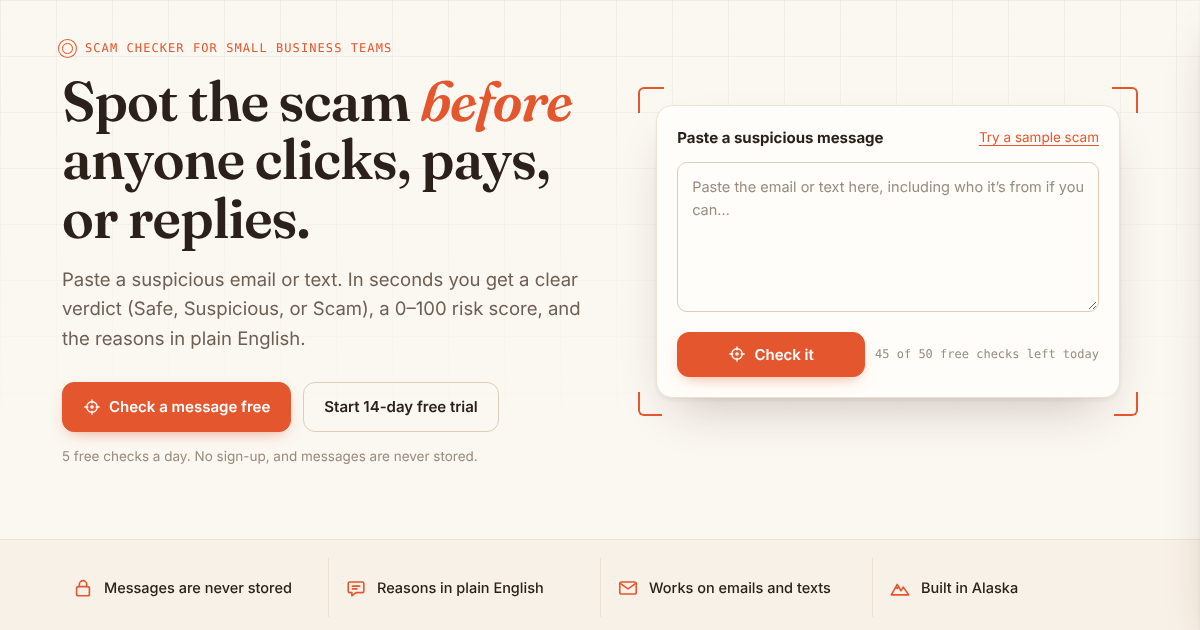
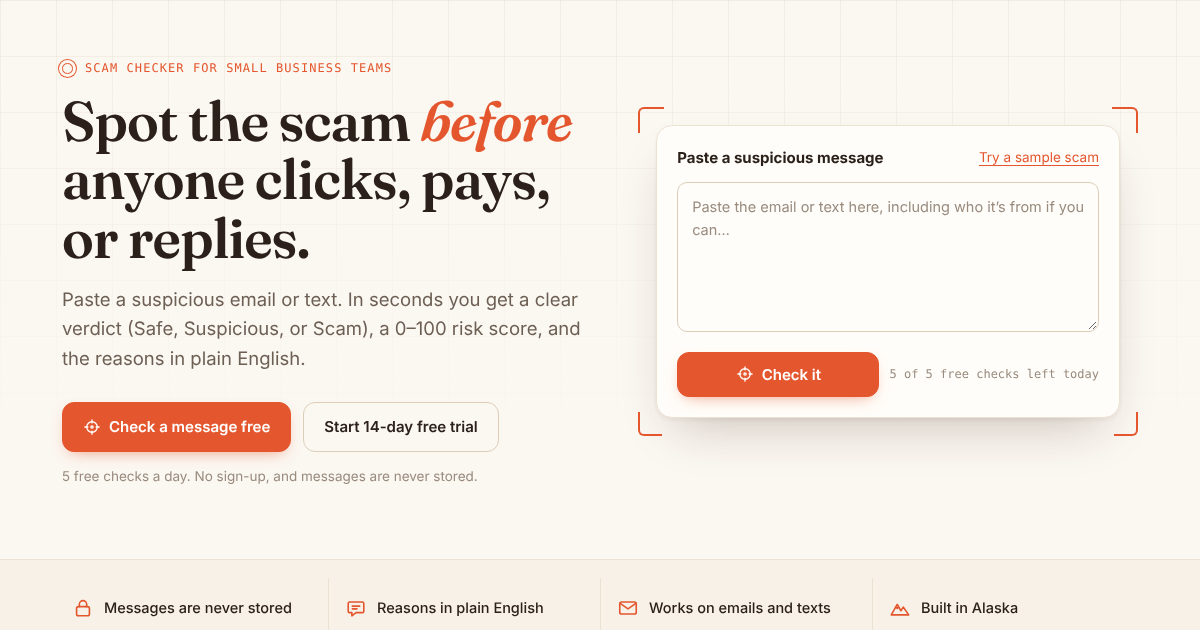
Keep the owner's photo in Menu > About only
Remove the photo from the homepage hero, the homepage 'Hi, I'm Houston'
section and the Menu button; drop About from the top nav. The photo and
intro remain under Menu > About the owner and on /about.

Claude-Session: https://claude.ai/code/session_01CN22sN54SqRwMSc3S3gdZv

diff --git a/public/index.html b/public/index.html
@@ -30,9 +30,9 @@
 <symbol id="i-arrow" viewBox="0 0 24 24"><path d="M5 12h14M13 6l6 6-6 6"/></symbol>
 </defs></svg>
 <header class="nav"><div class="wrap"><a class="logo" href="/"><img src="/logo.svg" alt="" width="28" height="28">ScamSpotter</a>
-<nav class="nav-links" aria-label="Main"><a href="#how">How it works</a><a href="#pricing">Pricing</a><a href="/about">About</a><a href="#faq">FAQ</a>
+<nav class="nav-links" aria-label="Main"><a href="#how">How it works</a><a href="#pricing">Pricing</a><a href="#faq">FAQ</a>
 <a class="btn sm" href="/check">Check a message</a>
-<button class="menu-btn" type="button" data-menu aria-controls="menu"><img src="/img/houston-avatar.jpg" alt="" width="24" height="24"><span class="lbl">Menu</span><svg class="i" viewBox="0 0 24 24" aria-hidden="true"><path d="M4 7h16M4 12h16M4 17h16"/></svg></button></nav></div></header>
+<button class="menu-btn" type="button" data-menu aria-controls="menu"><span class="lbl">Menu</span><svg class="i" viewBox="0 0 24 24" aria-hidden="true"><path d="M4 7h16M4 12h16M4 17h16"/></svg></button></nav></div></header>
 <main>
 <section class="hero"><div class="wrap"><div>
 <span class="tag">Scam checker for small business teams</span>
@@ -40,7 +40,6 @@
 <p class="lead">Paste a suspicious email or text. In seconds you get a clear verdict (Safe, Suspicious, or Scam), a 0–100 risk score, and the reasons in plain English.</p>
 <div class="ctas"><a class="btn" href="#scan" data-focus-scan><svg class="i"><use href="#i-reticle"/></svg>Check a message free</a><a class="btn ghost" href="https://buy.stripe.com/7sY7sL3WAdh23e80D0asg04">Start 14-day free trial</a></div>
 <p class="fine">5 free checks a day. No sign-up, and messages are never stored.</p>
-<div class="hello"><img src="/img/houston-avatar.jpg" alt="" width="44" height="44"><div>Built by <b>Houston Cook</b> in Anchorage, Alaska. <a href="/about">Meet Houston →</a></div></div>
 </div>
 <div class="lock" id="scan"><span class="c1"></span><span class="c2"></span>
 <form class="scanner" id="hs" novalidate>
@@ -74,16 +73,6 @@
 <div class="card"><div class="ico"><svg class="i"><use href="#i-headset"/></svg></div><h3>Fake support &amp; renewals</h3><p>“Your subscription renewed for $499. Call to cancel.” The number reaches a scammer.</p><div class="eg">Callback numbers · remote-access tools · surprise charges</div></div>
 <div class="card"><div class="ico"><svg class="i"><use href="#i-phone"/></svg></div><h3>Delivery &amp; account texts</h3><p>“Your package is on hold. Update your address here.”</p><div class="eg">Risky domains · short links · urgent deadlines</div></div>
 </div></div></section>
-
-<section class="founder" id="about"><div class="wrap">
-<figure class="lock photo"><span class="c1"></span><span class="c2"></span><img src="/img/houston-plane.jpg" alt="Houston Cook smiling in a small plane’s cockpit, with icebergs and glacier ice in the water below" width="1200" height="900" loading="lazy"></figure>
-<div><span class="tag">Who’s behind it</span><h2>Hi, I’m Houston.</h2>
-<p>I built ScamSpotter in Anchorage, Alaska, for small businesses like the ones around me: the shops, offices, and crews where one person pays the bills and answers the email.</p>
-<p>Scam messages keep getting more convincing, and one wrong reply to a fake invoice or a “new bank details” email can cost thousands of dollars that are hard to get back. I wanted a check that anyone on the team can run in seconds, with no jargon.</p>
-<p>If a result ever looks wrong, tell me. I read every message.</p>
-<p class="sig">Houston Cook</p>
-<p style="margin-top:6px"><a href="/about">Read the full story →</a></p></div>
-</div></section>
 
 <section id="pricing"><div class="wrap"><div class="sec-h"><span class="tag">Pricing</span><h2>Free to try. One simple price for the team.</h2><p>One plan covers your whole business, with no per-seat fees.</p></div>
 <div class="plans">

diff --git a/public/404.html b/public/404.html
@@ -30,9 +30,9 @@
 <symbol id="i-arrow" viewBox="0 0 24 24"><path d="M5 12h14M13 6l6 6-6 6"/></symbol>
 </defs></svg>
 <header class="nav"><div class="wrap"><a class="logo" href="/"><img src="/logo.svg" alt="" width="28" height="28">ScamSpotter</a>
-<nav class="nav-links" aria-label="Main"><a href="/#how">How it works</a><a href="/#pricing">Pricing</a><a href="/about">About</a><a href="/#faq">FAQ</a>
+<nav class="nav-links" aria-label="Main"><a href="/#how">How it works</a><a href="/#pricing">Pricing</a><a href="/#faq">FAQ</a>
 <a class="btn sm" href="/check">Check a message</a>
-<button class="menu-btn" type="button" data-menu aria-controls="menu"><img src="/img/houston-avatar.jpg" alt="" width="24" height="24"><span class="lbl">Menu</span><svg class="i" viewBox="0 0 24 24" aria-hidden="true"><path d="M4 7h16M4 12h16M4 17h16"/></svg></button></nav></div></header>
+<button class="menu-btn" type="button" data-menu aria-controls="menu"><span class="lbl">Menu</span><svg class="i" viewBox="0 0 24 24" aria-hidden="true"><path d="M4 7h16M4 12h16M4 17h16"/></svg></button></nav></div></header>
 <main><div class="app-h" style="padding:90px 0 120px;text-align:center"><div class="wrap"><svg class="i" viewBox="0 0 24 24" style="width:72px;height:72px;color:var(--accent);stroke-width:1.2" aria-hidden="true"><circle cx="12" cy="12" r="7"/><circle cx="12" cy="12" r="1.5"/><path d="M12 2.5v4M12 17.5v4M2.5 12h4M17.5 12h4"/></svg>
 <h1 style="margin-top:14px">Missed the target</h1><p>That page doesn’t exist. Let’s get you back on track.</p><div class="ctas" style="justify-content:center;margin-top:22px"><a class="btn" href="/">Go home</a><a class="btn ghost" href="/check">Check a message</a></div></div></div></main>
 <footer><div class="wrap"><div class="f-logo"><img src="/logo.svg" alt="" width="18" height="18">© 2026 ScamSpotter · Anchorage, Alaska</div>

diff --git a/public/styles.css b/public/styles.css
@@ -20,7 +20,7 @@ header.nav{position:sticky;top:0;z-index:20;background:var(--nav-bg);backdrop-fi
 .logo{display:flex;align-items:center;gap:10px;font-weight:700;font-size:18px;color:var(--ink);text-decoration:none;letter-spacing:-.01em;white-space:nowrap}
 .logo:hover{color:var(--ink)}.logo img{width:28px;height:28px}
 .nav-links{display:flex;gap:22px;align-items:center}.nav-links a:not(.btn){color:var(--muted);text-decoration:none;font-weight:500;font-size:14.5px}.nav-links a:not(.btn):hover{color:var(--ink)}
-.menu-btn{display:inline-flex;align-items:center;gap:8px;font:inherit;font-size:14px;font-weight:600;color:var(--ink);background:var(--surface);border:1px solid var(--line2);border-radius:999px;padding:7px 14px 7px 10px;cursor:pointer;transition:border-color .15s,color .15s}
+.menu-btn{display:inline-flex;align-items:center;gap:8px;font:inherit;font-size:14px;font-weight:600;color:var(--ink);background:var(--surface);border:1px solid var(--line2);border-radius:999px;padding:7px 12px 7px 14px;cursor:pointer;transition:border-color .15s,color .15s}
 .menu-btn:hover{border-color:var(--accent);color:var(--accent)}.menu-btn img{width:24px;height:24px;border-radius:50%;object-fit:cover}.menu-btn svg.i{width:18px;height:18px}
 /* buttons */
 .btn{display:inline-flex;align-items:center;justify-content:center;gap:8px;background:var(--accent);color:var(--on-accent)!important;border:1px solid var(--accent);border-radius:12px;padding:12px 20px;font-weight:600;font-size:15px;text-decoration:none;cursor:pointer;transition:background .15s,border-color .15s,color .15s,transform .15s,box-shadow .15s;font-family:inherit;white-space:nowrap;box-shadow:0 6px 16px -8px rgba(228,87,46,.7)}

diff --git a/public/privacy.html b/public/privacy.html
@@ -30,9 +30,9 @@
 <symbol id="i-arrow" viewBox="0 0 24 24"><path d="M5 12h14M13 6l6 6-6 6"/></symbol>
 </defs></svg>
 <header class="nav"><div class="wrap"><a class="logo" href="/"><img src="/logo.svg" alt="" width="28" height="28">ScamSpotter</a>
-<nav class="nav-links" aria-label="Main"><a href="/#how">How it works</a><a href="/#pricing">Pricing</a><a href="/about">About</a><a href="/#faq">FAQ</a>
+<nav class="nav-links" aria-label="Main"><a href="/#how">How it works</a><a href="/#pricing">Pricing</a><a href="/#faq">FAQ</a>
 <a class="btn sm" href="/check">Check a message</a>
-<button class="menu-btn" type="button" data-menu aria-controls="menu"><img src="/img/houston-avatar.jpg" alt="" width="24" height="24"><span class="lbl">Menu</span><svg class="i" viewBox="0 0 24 24" aria-hidden="true"><path d="M4 7h16M4 12h16M4 17h16"/></svg></button></nav></div></header>
+<button class="menu-btn" type="button" data-menu aria-controls="menu"><span class="lbl">Menu</span><svg class="i" viewBox="0 0 24 24" aria-hidden="true"><path d="M4 7h16M4 12h16M4 17h16"/></svg></button></nav></div></header>
 <main><div class="app-h"><div class="wrap"><span class="tag">Legal</span><h1>Privacy Policy</h1><p>Last updated November 3, 2026</p></div></div>
 <div class="wrap legal">
 <p>ScamSpotter is a small business based in Anchorage, Alaska. This page explains what we collect when you use scamspotter.app and what we do with it. The short version: we don’t save the messages you check, and we don’t sell anything about you.</p>

diff --git a/public/welcome.html b/public/welcome.html
@@ -30,9 +30,9 @@
 <symbol id="i-arrow" viewBox="0 0 24 24"><path d="M5 12h14M13 6l6 6-6 6"/></symbol>
 </defs></svg>
 <header class="nav"><div class="wrap"><a class="logo" href="/"><img src="/logo.svg" alt="" width="28" height="28">ScamSpotter</a>
-<nav class="nav-links" aria-label="Main"><a href="/#how">How it works</a><a href="/#pricing">Pricing</a><a href="/about">About</a><a href="/#faq">FAQ</a>
+<nav class="nav-links" aria-label="Main"><a href="/#how">How it works</a><a href="/#pricing">Pricing</a><a href="/#faq">FAQ</a>
 <a class="btn sm" href="/check">Check a message</a>
-<button class="menu-btn" type="button" data-menu aria-controls="menu"><img src="/img/houston-avatar.jpg" alt="" width="24" height="24"><span class="lbl">Menu</span><svg class="i" viewBox="0 0 24 24" aria-hidden="true"><path d="M4 7h16M4 12h16M4 17h16"/></svg></button></nav></div></header>
+<button class="menu-btn" type="button" data-menu aria-controls="menu"><span class="lbl">Menu</span><svg class="i" viewBox="0 0 24 24" aria-hidden="true"><path d="M4 7h16M4 12h16M4 17h16"/></svg></button></nav></div></header>
 <main><div class="app-h"><div class="wrap"><span class="tag">Welcome</span><h1>You’re in. Welcome to ScamSpotter!</h1><p>Your 14-day free trial has started. You won’t be charged until it ends.</p></div></div>
 <div class="wrap" style="padding:28px 22px 80px;max-width:760px;margin:0">
 <div class="panel" id="wk">

diff --git a/public/terms.html b/public/terms.html
@@ -30,9 +30,9 @@
 <symbol id="i-arrow" viewBox="0 0 24 24"><path d="M5 12h14M13 6l6 6-6 6"/></symbol>
 </defs></svg>
 <header class="nav"><div class="wrap"><a class="logo" href="/"><img src="/logo.svg" alt="" width="28" height="28">ScamSpotter</a>
-<nav class="nav-links" aria-label="Main"><a href="/#how">How it works</a><a href="/#pricing">Pricing</a><a href="/about">About</a><a href="/#faq">FAQ</a>
+<nav class="nav-links" aria-label="Main"><a href="/#how">How it works</a><a href="/#pricing">Pricing</a><a href="/#faq">FAQ</a>
 <a class="btn sm" href="/check">Check a message</a>
-<button class="menu-btn" type="button" data-menu aria-controls="menu"><img src="/img/houston-avatar.jpg" alt="" width="24" height="24"><span class="lbl">Menu</span><svg class="i" viewBox="0 0 24 24" aria-hidden="true"><path d="M4 7h16M4 12h16M4 17h16"/></svg></button></nav></div></header>
+<button class="menu-btn" type="button" data-menu aria-controls="menu"><span class="lbl">Menu</span><svg class="i" viewBox="0 0 24 24" aria-hidden="true"><path d="M4 7h16M4 12h16M4 17h16"/></svg></button></nav></div></header>
 <main><div class="app-h"><div class="wrap"><span class="tag">Legal</span><h1>Terms of Service</h1><p>Last updated November 3, 2026</p></div></div>
 <div class="wrap legal">
 <p>These terms apply to your use of scamspotter.app and the ScamSpotter service. By using the site, you agree to them.</p>

diff --git a/public/about.html b/public/about.html
@@ -30,9 +30,9 @@
 <symbol id="i-arrow" viewBox="0 0 24 24"><path d="M5 12h14M13 6l6 6-6 6"/></symbol>
 </defs></svg>
 <header class="nav"><div class="wrap"><a class="logo" href="/"><img src="/logo.svg" alt="" width="28" height="28">ScamSpotter</a>
-<nav class="nav-links" aria-label="Main"><a href="/#how">How it works</a><a href="/#pricing">Pricing</a><a href="/about">About</a><a href="/#faq">FAQ</a>
+<nav class="nav-links" aria-label="Main"><a href="/#how">How it works</a><a href="/#pricing">Pricing</a><a href="/#faq">FAQ</a>
 <a class="btn sm" href="/check">Check a message</a>
-<button class="menu-btn" type="button" data-menu aria-controls="menu"><img src="/img/houston-avatar.jpg" alt="" width="24" height="24"><span class="lbl">Menu</span><svg class="i" viewBox="0 0 24 24" aria-hidden="true"><path d="M4 7h16M4 12h16M4 17h16"/></svg></button></nav></div></header>
+<button class="menu-btn" type="button" data-menu aria-controls="menu"><span class="lbl">Menu</span><svg class="i" viewBox="0 0 24 24" aria-hidden="true"><path d="M4 7h16M4 12h16M4 17h16"/></svg></button></nav></div></header>
 <main>
 <section class="about-hero"><div class="wrap"><div><span class="tag">About</span><h1>A scam checker built in Alaska, for the people who pay the bills.</h1>
 <p>ScamSpotter is a small, independent business run by Houston Cook in Anchorage.</p></div>

diff --git a/public/check.html b/public/check.html
@@ -30,9 +30,9 @@
 <symbol id="i-arrow" viewBox="0 0 24 24"><path d="M5 12h14M13 6l6 6-6 6"/></symbol>
 </defs></svg>
 <header class="nav"><div class="wrap"><a class="logo" href="/"><img src="/logo.svg" alt="" width="28" height="28">ScamSpotter</a>
-<nav class="nav-links" aria-label="Main"><a href="/#how">How it works</a><a href="/#pricing">Pricing</a><a href="/about">About</a><a href="/#faq">FAQ</a>
+<nav class="nav-links" aria-label="Main"><a href="/#how">How it works</a><a href="/#pricing">Pricing</a><a href="/#faq">FAQ</a>
 <a class="btn sm" href="/check">Check a message</a>
-<button class="menu-btn" type="button" data-menu aria-controls="menu"><img src="/img/houston-avatar.jpg" alt="" width="24" height="24"><span class="lbl">Menu</span><svg class="i" viewBox="0 0 24 24" aria-hidden="true"><path d="M4 7h16M4 12h16M4 17h16"/></svg></button></nav></div></header>
+<button class="menu-btn" type="button" data-menu aria-controls="menu"><span class="lbl">Menu</span><svg class="i" viewBox="0 0 24 24" aria-hidden="true"><path d="M4 7h16M4 12h16M4 17h16"/></svg></button></nav></div></header>
 <main>
 <div class="app-h"><div class="wrap"><span class="tag">Checker</span><h1>Check a suspicious message</h1><p>Paste an email or text. Add the sender and subject if you have them.</p></div></div>
 <div class="wrap app">
